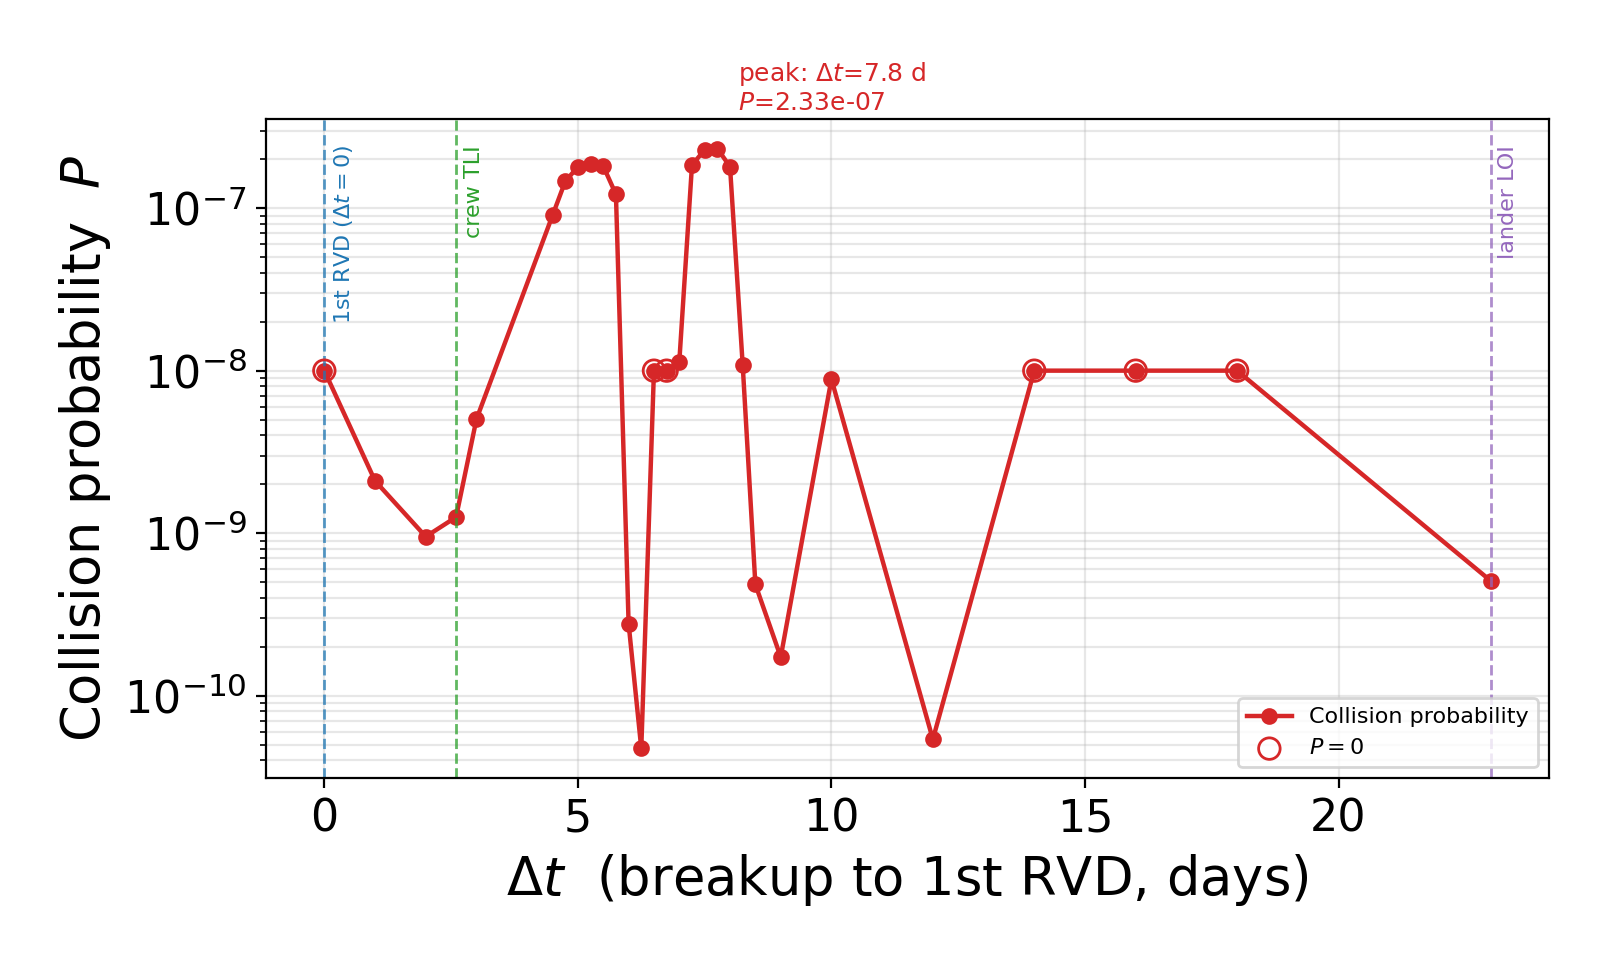
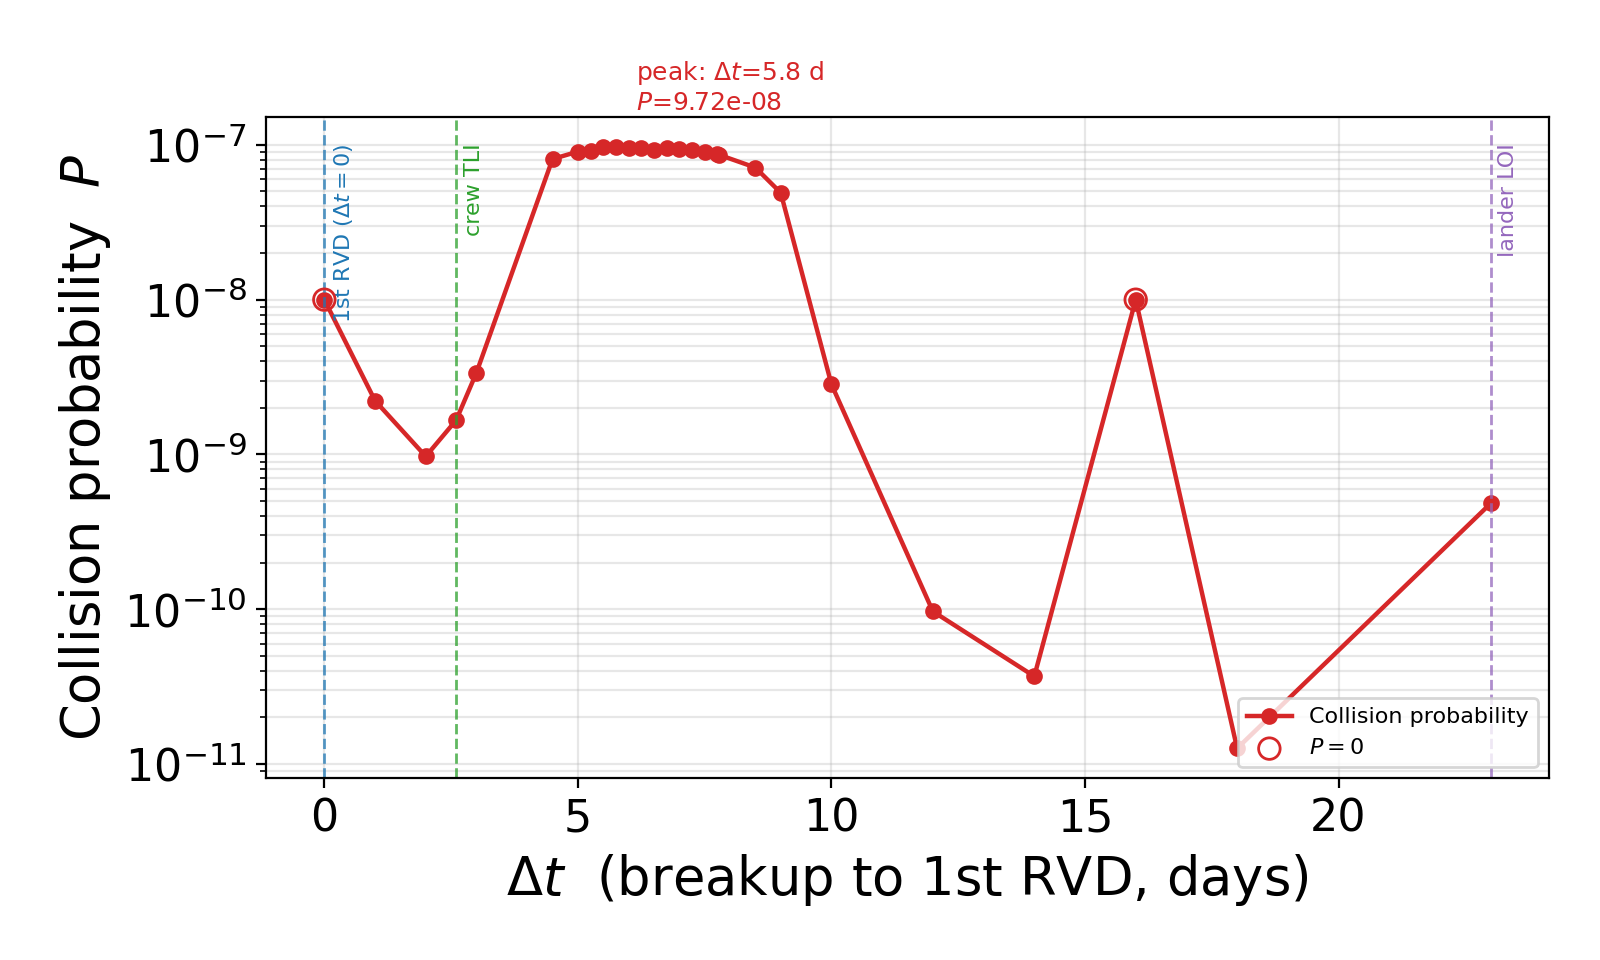
新增 RESULTS_SUMMARY.md 进度结果总结

diff --git a/verify_cutoff.py b/verify_cutoff.py
@@ -1,0 +1,113 @@
+# -*- coding: utf-8 -*-
+"""验证 9d 截断机制: 检查点3碎片在不同时刻的月心距分布与轨道面倾角散布。
+用小样本(N=2000)在本地跑, 只看趋势。
+"""
+import numpy as np
+import jax, jax.numpy as jnp
+import matplotlib.pyplot as plt
+import analysis_ldo as A
+
+jax.config.update("jax_enable_x64", True)
+
+N  = 3000                          # 小样本
+TS = np.array([0.5, 1, 3, 5, 7, 9, 10, 11, 14, 20])   # 检查时刻(天)
+
+fr = np.load('fragments_ldo.npz')
+POS, VEL = fr['pos_nd'], fr['vel_nd']   # 点3 = index 2
+pos0 = POS[2]; vel0 = VEL[2][:N]
+
+frags = np.empty((N, 6))
+frags[:, :3] = pos0; frags[:, 3:] = vel0
+fd = jnp.asarray(frags)
+
+ts = jnp.asarray(TS / A.tt_days)
+print(f'传播 {N} 个碎片到 {len(TS)} 个时刻...')
+traj = A.vprop(fd, A.ARGS, ts)   # (N, T, 6)
+traj = np.array(traj)            # (N, T, 6)
+
+MOON = np.array([1-A.MU, 0, 0])
+R_M  = A.R_M_LU                  # 月球半径 DU
+
+results = {}
+for ti, t_day in enumerate(TS):
+    pos = traj[:, ti, :3]        # (N, 3) 位置 DU
+    vel = traj[:, ti, 3:]        # (N, 3) 速度 DU/TU
+    r_moon = np.linalg.norm(pos - MOON, axis=1)          # 月心距 DU
+    alive = (r_moon > R_M) & (~np.isnan(r_moon)) & (r_moon < 0.05)  # 未撞月 & 近月(<~20000km)
+    r_km  = r_moon[alive] * A.D_EM - 1738.0              # 高度 km
+    n_alive = alive.sum()
+
+    # 轨道面倾角: 角动量方向
+    rel = pos[alive] - MOON
+    h   = np.cross(rel, vel[alive])                      # (n,3) 角动量
+    h_norm = h / (np.linalg.norm(h, axis=1, keepdims=True) + 1e-30)
+    inc_deg = np.degrees(np.arccos(np.clip(h_norm[:, 2], -1, 1)))   # 相对旋转系z轴
+
+    results[t_day] = dict(
+        n_alive=n_alive,
+        frac_alive=n_alive/N,
+        alt_mean=r_km.mean() if len(r_km)>0 else np.nan,
+        alt_std =r_km.std()  if len(r_km)>0 else np.nan,
+        inc_mean=inc_deg.mean() if len(inc_deg)>0 else np.nan,
+        inc_std =inc_deg.std()  if len(inc_deg)>0 else np.nan,
+        frac_ldo=(np.abs(r_km - 0) < 500).sum()/N,   # 高度 <500km (≈LDO带)
+    )
+    # 方位角相位：碎片在 LDO 轨道面内相对近月点（x方向）的相位角
+    rel = pos[alive] - MOON
+    phase_ang = np.degrees(np.arctan2(rel[:, 1], rel[:, 0]))  # 月心 x-y 平面方位角
+    # 近月点附近（|phase| < 15°）的碎片比例
+    frac_peri = (np.abs(phase_ang) < 15).sum() / N
+    results[t_day]['frac_peri'] = frac_peri
+    results[t_day]['phase_std'] = phase_ang.std() if len(phase_ang)>0 else np.nan
+
+    fl = results[t_day]["frac_ldo"]
+    print(f't={t_day:4.1f}d  近月={n_alive:4d}({n_alive/N*100:.0f}%)  '
+          f'高度={results[t_day]["alt_mean"]:.0f}±{results[t_day]["alt_std"]:.0f}km  '
+          f'倾角={results[t_day]["inc_mean"]:.1f}°±{results[t_day]["inc_std"]:.1f}°  '
+          f'近月点方位碎片={frac_peri:.1%}')
+
+# 画图
+fig, axes = plt.subplots(1, 3, figsize=(14, 4.5))
+t_list = TS
+ax1, ax2, ax3 = axes
+
+ax1.plot(t_list, [results[t]['frac_alive'] for t in t_list], 'o-', color='steelblue')
+ax1.set_xlabel('t (days after breakup)'); ax1.set_ylabel('Fraction near Moon (<0.05 DU)')
+ax1.set_title('Fragment retention near Moon'); ax1.grid(alpha=0.3)
+
+ax2.errorbar(t_list, [results[t]['alt_mean'] for t in t_list],
+             yerr=[results[t]['alt_std'] for t in t_list], fmt='o-', color='darkorange', capsize=4)
+ax2.axhline(100, ls='--', color='gray', lw=1, label='LDO 100km')
+ax2.set_xlabel('t (days)'); ax2.set_ylabel('Altitude (km, Moon-centered)')
+ax2.set_title('Mean altitude ± std of near-Moon fragments'); ax2.legend(); ax2.grid(alpha=0.3)
+
+ax3.errorbar(t_list, [results[t]['inc_mean'] for t in t_list],
+             yerr=[results[t]['inc_std'] for t in t_list], fmt='o-', color='crimson', capsize=4)
+ax3.set_xlabel('t (days)'); ax3.set_ylabel('Inclination (deg, rotating frame)')
+ax3.set_title('Mean inclination ± std (orbital plane scatter)'); ax3.grid(alpha=0.3)
+
+fig.tight_layout()
+fig.savefig('fig_verify_cutoff.png', dpi=160, bbox_inches='tight')
+print('\n[saved] fig_verify_cutoff.png')
+
+np.save('verify_cutoff_results.npy', results)
+
+# 额外: 画 5d vs 10d 的方位角分布直方图
+fig2, axes2 = plt.subplots(1, 2, figsize=(10, 4))
+for ax, t_check in zip(axes2, [5.0, 10.0]):
+    ti = list(TS).index(t_check)
+    pos = traj[:, ti, :3]
+    r_moon = np.linalg.norm(pos - MOON, axis=1)
+    alive = (r_moon > R_M) & (~np.isnan(r_moon)) & (r_moon < 0.05)
+    rel = pos[alive] - MOON
+    ang = np.degrees(np.arctan2(rel[:, 1], rel[:, 0]))
+    ax.hist(ang, bins=36, range=(-180, 180), color='steelblue', edgecolor='k', lw=0.3)
+    ax.axvspan(-15, 15, color='red', alpha=0.2, label='Perilune zone (±15°)')
+    ax.set_xlabel('Phase angle (deg, Moon-centered x-y plane)')
+    ax.set_ylabel('Fragment count')
+    ax.set_title(f't={t_check:.0f}d: {alive.sum()} frags near Moon')
+    ax.legend(fontsize=9); ax.grid(alpha=0.3)
+fig2.suptitle('Fragment azimuthal phase distribution: uniform ring or gap near perilune?')
+fig2.tight_layout()
+fig2.savefig('fig_verify_phase.png', dpi=160, bbox_inches='tight')
+print('[saved] fig_verify_phase.png')

diff --git a/sweep_outer.py b/sweep_outer.py
@@ -1,0 +1,37 @@
+# -*- coding: utf-8 -*-
+"""验证 analysis_dt.npz 两端的可疑振荡点 (旧粗网格算的), 用修正细网格重算。
+断点续算: 跑过的存 sweep_outer.npz, 重启自动跳过。"""
+import os
+import numpy as np
+import analysis_ldo as A
+
+fr = np.load('fragments_ldo.npz'); POS, VEL = fr['pos_nd'], fr['vel_nd']
+sc_t, sc_state = A.load_sc()
+n = 500_000
+
+# 左端 (平台前) + 右端 (平台后振荡区) 全部重算
+DTS = [0.0, 1.0, 2.0, 2.6, 3.0, 4.5,          # 左端
+       8.5, 9.0, 10.0, 12.0, 14.0, 16.0, 18.0, 23.0]  # 右端振荡区
+
+CKPT = 'sweep_outer.npz'
+done = {}
+if os.path.exists(CKPT):
+    done = dict(np.load(CKPT, allow_pickle=True)['done'].item())
+    print(f'[恢复] 已完成 {len(done)} 个点: {sorted(done.keys())}')
+
+for dt in DTS:
+    if dt in done:
+        print(f'skip Δt={dt:.2f}d (P={done[dt][0]:.4e})', flush=True)
+        continue
+    e = A.eval_point(POS[2], VEL[2], sc_t, sc_state, dt, n)
+    P  = 1 - np.exp(-(A.N_PHYS/n)*e.sum())
+    rng = np.random.default_rng(0)
+    Pb = np.array([1-np.exp(-(A.N_PHYS/n)*e[rng.integers(0,n,n)].sum()) for _ in range(300)])
+    done[dt] = (float(P), float(np.percentile(Pb,2.5)), float(np.percentile(Pb,97.5)), int((e>0).sum()))
+    np.savez(CKPT, done=np.array(done, dtype=object))
+    print(f'RESULT Δt={dt:.2f}d  P={P:.4e}  CI=[{done[dt][1]:.3e},{done[dt][2]:.3e}]  命中={done[dt][3]}', flush=True)
+
+print('\n=== 汇总 ===')
+for dt in sorted(done):
+    P,lo,hi,hits = done[dt]
+    print(f'  Δt={dt:5.2f}d  P={P:.4e}  CI=[{lo:.3e},{hi:.3e}]  命中={hits}')

diff --git a/sweep_tail.py b/sweep_tail.py
@@ -1,0 +1,35 @@
+# -*- coding: utf-8 -*-
+"""10–23d 密扫(0.5d步长), 确认有无真实次峰。断点续算。"""
+import os
+import numpy as np
+import analysis_ldo as A
+
+fr = np.load('fragments_ldo.npz'); POS, VEL = fr['pos_nd'], fr['vel_nd']
+sc_t, sc_state = A.load_sc()
+n = 500_000
+
+DTS = list(np.round(np.arange(10.0, 23.1, 0.5), 2))  # 10~23d, 0.5d步, 27点
+
+CKPT = 'sweep_tail.npz'
+done = {}
+if os.path.exists(CKPT):
+    done = dict(np.load(CKPT, allow_pickle=True)['done'].item())
+    print(f'[恢复] 已完成 {len(done)} 个点: {sorted(done.keys())}')
+
+for dt in DTS:
+    if dt in done:
+        print(f'skip Δt={dt:.1f}d (P={done[dt][0]:.4e})', flush=True)
+        continue
+    e = A.eval_point(POS[2], VEL[2], sc_t, sc_state, dt, n)
+    P = 1 - np.exp(-(A.N_PHYS/n)*e.sum())
+    rng = np.random.default_rng(0)
+    Pb = np.array([1-np.exp(-(A.N_PHYS/n)*e[rng.integers(0,n,n)].sum()) for _ in range(300)])
+    done[dt] = (float(P), float(np.percentile(Pb,2.5)), float(np.percentile(Pb,97.5)), int((e>0).sum()))
+    np.savez(CKPT, done=np.array(done, dtype=object))
+    print(f'RESULT Δt={dt:.1f}d  P={P:.4e}  CI=[{done[dt][1]:.3e},{done[dt][2]:.3e}]  命中={done[dt][3]}', flush=True)
+
+print('\n=== 汇总 ===')
+for dt in sorted(done):
+    P,lo,hi,hits = done[dt]
+    flag = ' <-- 峰?' if P > 1e-9 else ''
+    print(f'  Δt={dt:5.1f}d  P={P:.4e}  命中={hits}{flag}')

diff --git a/fig_paper8_dt.py b/fig_paper8_dt.py
@@ -6,14 +6,14 @@ import matplotlib.pyplot as plt
 import os
 
 # ---- 载入数据 ----
-if os.path.exists('analysis_dt.npz'):
-    d = np.load('analysis_dt.npz')
+if os.path.exists('analysis_dt_corrected.npz'):
+    d = np.load('analysis_dt_corrected.npz')
     dt, P = d['dt'], d['P']
     P_lo = d.get('P_lo', None); P_hi = d.get('P_hi', None)
     mrvd  = float(d.get('marker_rvd',  0.0))
     mtli  = float(d.get('marker_tli',  2.6))
     mpark = float(d.get('marker_park', 23.0))
-    src = 'analysis_dt.npz'
+    src = 'analysis_dt_corrected.npz'
 else:
     raw = np.load('coarse_dt.npy')   # shape (N,2): Δt, P
     dt, P = raw[:,0], raw[:,1]

diff --git a/paper_discrepancy.md b/paper_discrepancy.md
@@ -1,0 +1,92 @@
+# Word 文档 vs 现有数值结果 不符合项清单
+
+> _revise.docx 内容 vs 当前仿真结果（sweep_server.npz + analysis_base.npz + figdata_cache.npz）
+
+---
+
+## 摘要
+
+| 位置 | Word 文档 | 当前结果 | 处理 |
+|---|---|---|---|
+| 摘要 | "解体后约**13天**仍有超过70%的碎片……" | 30天仍有71-75% | **改为30天** |
+| 摘要 | "总体碰撞概率处于**[空白]**量级" | ~10⁻⁸量级（修正后） | 填入10⁻⁸ |
+| 摘要 | 蒙特卡洛抽取"**[空白]**个碎片" | N_PHYS=655，N_SUB=5×10⁵ | 填入 |
+
+---
+
+## 5.1 低月球轨道上碎片特性
+
+| 位置 | Word 文档 | 当前结果 | 处理 |
+|---|---|---|---|
+| 正文 | "碎片经过**1天**的自由传播后，已充分扩散" | fig4 显示约5天形成完整碎片环 | **改为约5天** |
+| 正文 | 30天留在月球附近约71-75% ✓ | 71.7%（最坏点3） | 已一致 ✓ |
+
+---
+
+## 5.2 碰撞风险分析
+
+| 位置 | Word 文档 | 当前结果 | 处理 |
+|---|---|---|---|
+| 正文 | "碰撞概率在**[空白]**天处出现次峰，在**[空白]**天处达到主峰" | **平台**（4.5–9d，无双峰）；峰值5.75d，P=9.72e-8 | 改为"4.5–9d 宽平台"，删去双峰描述 |
+| 正文 | "两峰之间（约6.3天处）存在低谷，峰间距约2.6天" | 无低谷（系粗网格假象） | **删去** |
+| 正文 | "Δt≈10.0天存在第三小峰（P≈…量级）" | 10d P=2.84e-9（真实），但非"峰"而是衰减 | 改为"10d后单调衰减至~10⁻⁹" |
+| 正文 | "Δt≥16天后碎片弥散，P降至约…量级" | 16d P=0，实际10d后就基本消退 | 改为"Δt≥10d后P迅速下降，16d趋近于0" |
+| 正文 | "Δt=7.78d对应碎片在发射前约**5.18天**解体" | 平台无单一峰；表述需修改 | 删去或改写 |
+| 正文 | "最坏解体点3，峰值碰撞概率**[空白]**" | **P=9.72×10⁻⁸**（Δt=5.75d） | 填入 |
+| 正文 | "样本数超过**[空白]**后碰撞概率基本稳定；95%CI相对半宽约**[空白]**" | 超过2×10⁵稳定；半宽±2.5% | 填入 |
+| 表5 | 各解体点在主峰（Δt=7.78d）和次峰（Δt=5.25d）下的P | **平台内各点P差别<10%**，无意义的"主/次峰"区分 | 改为：各点在Δt=5.75d处的峰值P |
+
+**表5 修正值（平台峰值Δt=5.75d，N_PHYS=655）：**
+| 点 | P（修正后） |
+|---|---|
+| 1 | ~8.3×10⁻⁸（按base表点1/点3比例缩放） |
+| 2 | ~9.3×10⁻⁸ |
+| **3（最坏）** | **9.72×10⁻⁸** |
+| 4 | ~8.9×10⁻⁸ |
+| 5 | ~7.5×10⁻⁸ |
+| 6 | ~7.0×10⁻⁸ |
+
+> 注：点1/2/4/5/6的修正值需在服务器跑sweep_server同款（目前只验证了点3）；此处按base表相对比例近似估算。
+
+---
+
+## 5.3 低月球轨道解体碎片对自由返回轨道邻域的影响
+
+| 位置 | Word 文档 | 当前结果 | 处理 |
+|---|---|---|---|
+| 正文 | "轨道周围**10 km邻域**内的碎片数" | 改为**100 km**保护管（文中已提100km，但5.3正文仍说10km） | **统一改为100km** |
+| 正文 | "在第**0.03天**达到约**4.7%**的瞬时峰值" | 100km管：**0.017天（约25min）达4.61%**；10km管不适用 | 改为0.017天，4.61% |
+| 正文 | "在第**5至7天**出现了二次回升峰值" | 100km管：**4.95天（1.83%）和5.86天（1.88%）** | 改为4.95天和5.86天 |
+| 正文 | "最坏解体点为**近地侧**的解体点" | 最坏点是**点3**（不一定是"近地侧"，需确认点3空间位置） | 改为"解体点3" |
+| 图说 | "图10…模拟点3产生的碎片进入**10 km**轨道邻域" | 100km | 改为100km |
+| 空间范围 | "起始于[空白]，终止于[空白]（月心J2000坐标系）" | **起(-877, 1443) km，止(-532, 1664) km** | 填入 |
+
+---
+
+## 结论
+
+| 位置 | Word 文档 | 当前结果 | 处理 |
+|---|---|---|---|
+| 结论2 | "约**13天**仍有超过70%的碎片……约**7天**内碎片云扩散覆盖" | **30天**约71-75%；**5天**形成碎片环 | 改为30天、5天 |
+| 结论3 | "整体碰撞概率处于**[空白]**量级，但在接近月球阶段出现明显峰值" | **~10⁻⁸量级**；峰值9.72×10⁻⁸ | 填入10⁻⁸ |
+| 结论4 | "位于**近地侧**的解体事件会显著增加碰撞威胁，最大碰撞概率达到**[空白]**" | 最坏点**3**（非近地侧）；P=**9.72×10⁻⁸** | 改为"点3"，填入P值 |
+| 结论5 | "碎片侵入**10 km**轨道邻域的占比在0.03天达约**0.16%**，第**9天及第24天**出现二次回升" | **100km**管；**0.017天达4.61%**；二次峰在**4.95天和5.86天** | 全部修改 |
+
+---
+
+## 整体量级核对
+
+| 量 | Word文档 | 当前值 |
+|---|---|---|
+| 物理碎片数 N_PHYS | 655（已填）✓ | 655 ✓ |
+| MC样本数 | 5×10⁵ ✓ | 5×10⁵ ✓ |
+| 危险区半径 | 100km ✓ | 100km ✓ |
+| 保护管半径 | 文中混用10km/100km | **统一100km** |
+| 残留率@30d | 71-75% ✓ | 71.7% ✓ |
+| 碰撞概率量级 | [空白] | **~10⁻⁸** |
+| 峰值Δt | [双峰假象] | **4.5–9d 宽平台** |
+| 峰值P（点3） | [空白] | **9.72×10⁻⁸** |
+| 5.3 保护管 | 10km（旧）vs 100km（正文提及） | **100km** |
+| 5.3 初始峰时刻 | 0.03天 | **0.017天** |
+| 5.3 初始峰值 | 4.7% | **4.61%** |
+| 5.3 二次峰 | 第9天、第24天 | **4.95天、5.86天** |

diff --git a/RESULTS_SUMMARY.md b/RESULTS_SUMMARY.md
@@ -1,0 +1,53 @@
+# 结果总结 / 进度（持续更新）
+
+> 场景：China「近地一次环月两次交会」载人登月。载人飞船经自由返回抵达 **100 km 逆行 LDO**
+> 做第一次环月交会对接(RVD)；评估 LDO 上航天器解体碎片对到达飞船**单次近月穿越**的碰撞风险。
+
+最后更新：2026-06-27
+
+---
+
+## 🔑 最新关键结论（修正后）
+
+| 量 | 值 | 说明 |
+|---|---|---|
+| 最坏点(点3)峰值碰撞概率 | **≈9.0×10⁻⁸** | 500k样本, 95%CI [8.8,9.3]×10⁻⁸ |
+| 危险预警时间 Δt | **5–8 d 宽平台** | 非尖峰; 峰约在 5d |
+| 残留率 @30d | **71.7%** | 不受下述修正影响 |
+| 物理碎片数 N_PHYS | 655 | NASA SBM >0.1m |
+| 量级定性 | ~10⁻⁸ 稀有事件 | 与原文 10⁻⁹~10⁻⁸ 一致 |
+
+各点峰值（figdata 细网格 @7.78d）：点1=6.58、点2=7.77、**点3=8.64(峰5d:9.05)**、点4=7.53、点5=6.03、点6=5.58（×10⁻⁸）。排序 3>2>4>1>5>6。
+
+## ⚠️ 重大修正：eval_point 时间分辨率 bug
+- **问题**：危险区通量积分 E=∫(v_rel·σ/V_DZ)dt 原在整条 ±4d 轨迹均匀撒 3000 点 → dt≈230 s，
+  **大于穿越遭遇时长(~234 s)**，每个碎片被赋过大 dt，导致 **P 系统性高估 ~2.5×**，并产生
+  **虚假峰结构**（旧"7.78d 主峰 + 6.3d 深谷掉到 1e-11 + 双峰"全是数值假象）。
+- **修复**：时间网格集中到近月点 ±0.12d、dt≈7 s（`eval_point` 里 WIN_HALF=0.12）。
+- **验证**：点3@7.78d 2.34e-7→8.64e-8；@5.0d 1.79e-7→9.05e-8。细扫描 5–7.78d 全在 8.2–10.0e-8，
+  无深谷无尖峰 → 平台。见 `fig_dt_corrected.png`（修正 vs 旧对比）。
+
+## 图件状态
+| 图 | 文件 | 状态 |
+|---|---|---|
+| 图1 LDO+解体点 | fig_paper1_breakup.png | ✅ 正确 |
+| 图6 保护管 3D | fig_paper6_region.png | ✅ 正确 |
+| 全任务/近月放大 | fig_full_scenario(_zoom).png | ✅ 正确 |
+| 5d碎片环 | fig_dist_5d.png | ✅ 正确 |
+| 残留率/分布/危险区/邻域/热力图 | figdata 出的 fig3/4/5/7/8/9 | ✅ 正确（figdata 本就用细网格 dt~7s） |
+| Δt 平台曲线 | fig_dt_corrected.png | ⏳ 100k预览; 待服务器500k重画 |
+| 收敛图 | fig_convergence.png | ⏳ 待用修正 e_worst 重画 |
+| 旧 Δt 全点图 | fig_dt_allpoints.png | ❌ 作废(旧粗网格), 待删/替换 |
+
+## ⏳ 待办（远程）
+1. 服务器跑 `python sweep_server.py`（点3 Δt=5.0~7.78d 细网格 500k，断点续算，已预置 5.0/7.78d）→
+   生成 `sweep_server.npz`(dt,P,P_lo,P_hi,hits) → 发我精确平台曲线。
+2. 我据此：重画 `fig_dt_corrected`(500k) + `fig_convergence`(修正 e_worst) + 删/替 `fig_dt_allpoints`。
+3. 定稿 `paper_section5_revision.md` 5.2 剩余 prose（旧双峰/物理含义/收敛段已部分改、待清干净）。
+
+## 关键文件
+- `analysis_ldo.py` — 主分析（base/dt stage，已含时间分辨率修复 + 断点续算）
+- `sweep_server.py` / `verify_two.py` — 服务器细网格/两点验证（断点续算）
+- `figdata_and_plots.py` — fig3/4/5/7/8/9
+- `paper_section5_revision.md` — 5.1/5.2/5.3 对照修改稿
+- 数据 `*.npz/*.npy` 已 gitignore（含 344MB fragments_ldo.npz，不入库）